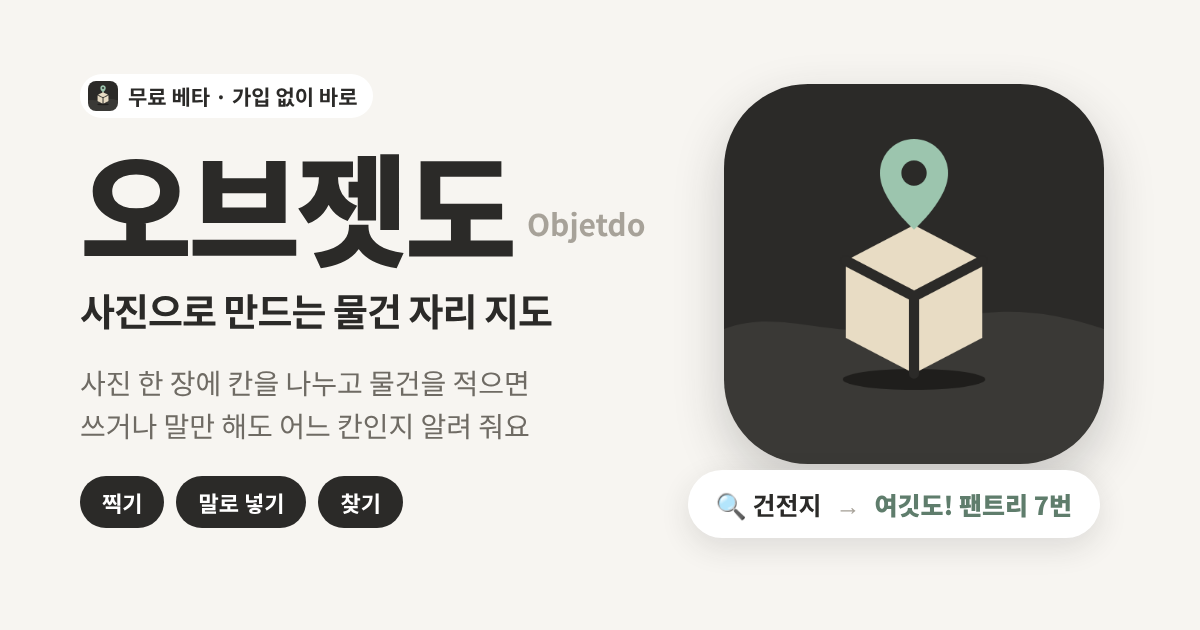
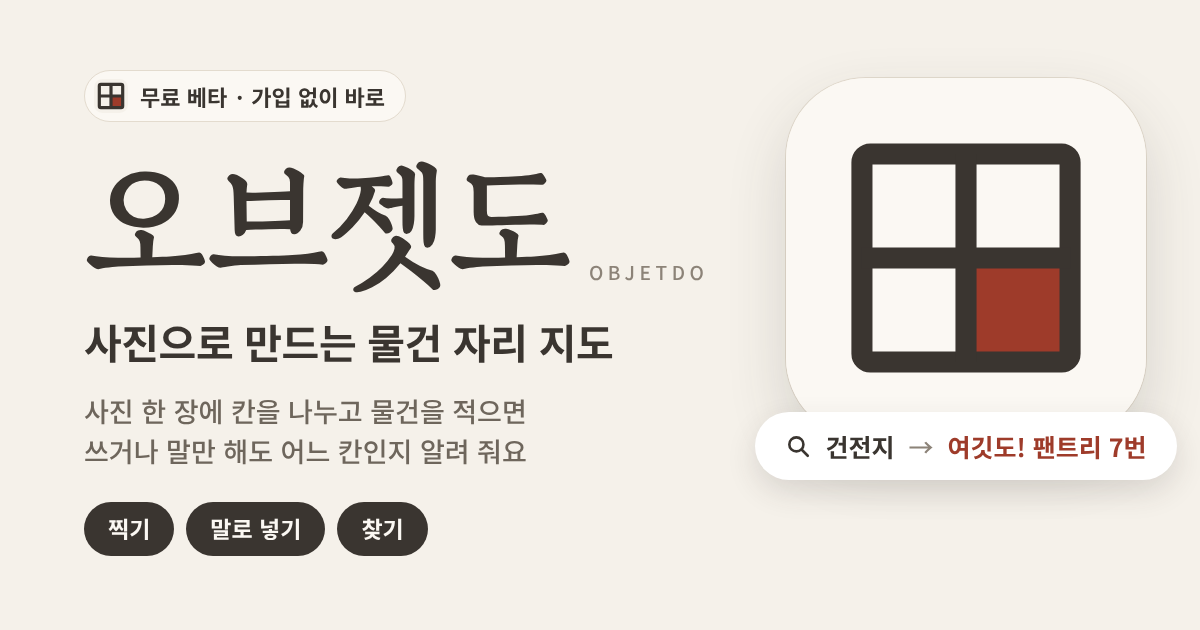
카톡 미리보기 그림(og-image)을 칸 마크·v2 색으로 + 다시 뽑는 도구
- og-image.png: 예전 아이콘(어두운 바탕·민트 핀) → 칸 마크, 바탕·글자·강조색을 v2(베이지·먹색·빨강, 이름은 고운바탕)로. 글은 그대로
- 원본 tools/og-image.html + node tools/make_og_image.js (글꼴을 못 받으면 그림을 만들지 않음)
- 각 페이지 og:image를 ?v=23으로 (카톡이 예전 그림을 기억하지 않게), rename_app.py 안내, 로드맵

Claude-Session: https://claude.ai/code/session_01D364GFJe8vW1WUdJNr2vnt

Changed region(s): [[0.0617, 0.2413, 0.555, 0.9048], [0.4933, 0.1206, 0.9558, 0.8444], [0.0617, 0.1206, 0.3392, 0.181]]

diff --git a/tools/og-image.html b/tools/og-image.html
@@ -1,0 +1,50 @@
+<!doctype html>
+<!-- 카톡·SNS 미리보기 그림 (og-image.png, 1200×630) 원본 — 11/10 '칸 마크'로 새로 만듦.
+     고치면: node tools/make_og_image.js  → 저장소 루트의 og-image.png를 다시 뽑는다.
+     그다음 index.html · v2/index.html · v1.html · start/ · price/ 의 og-image.png?v= 숫자를 올린다 (카톡은 예전 그림을 오래 기억한다) -->
+<html lang="ko">
+<meta charset="utf-8">
+<link rel="stylesheet" href="https://fonts.googleapis.com/css2?family=Gowun+Batang:wght@700&family=Noto+Sans+KR:wght@500;700&display=swap">
+<style>
+    :root { --bg: #F5F1EA; --sheet: #FBF8F3; --ink: #3A3530; --sub: #6E665C; --mute: #8C8378; --line: #E3DBCE; --accent: #9E3B2A; }
+    * { box-sizing: border-box; }
+    html, body { margin: 0; width: 1200px; height: 630px; overflow: hidden; }
+    body { position: relative; background: var(--bg); color: var(--ink); font-family: 'Noto Sans KR', sans-serif; word-break: keep-all; }
+    .left { position: absolute; left: 84px; top: 70px; width: 640px; }
+    .pill { display: inline-flex; align-items: center; gap: 12px; padding: 8px 20px 8px 9px; border: 1px solid var(--line); border-radius: 999px; background: var(--sheet); font-size: 22px; font-weight: 700; }
+    .pill svg { display: block; }
+    .word { display: flex; align-items: baseline; gap: 18px; margin-top: 30px; }
+    .word h1 { margin: 0; font-family: 'Gowun Batang', serif; font-size: 136px; font-weight: 700; line-height: 1.02; letter-spacing: -.01em; }
+    .word span { font-size: 19px; font-weight: 500; letter-spacing: .24em; color: var(--mute); }
+    .sub { margin: 20px 0 0; font-size: 41px; font-weight: 700; letter-spacing: -.01em; }
+    .desc { margin: 20px 0 0; font-size: 27px; font-weight: 500; line-height: 1.5; color: var(--sub); }
+    .acts { display: flex; gap: 12px; margin-top: 30px; }
+    .acts b { padding: 9px 24px 11px; border-radius: 999px; background: var(--ink); color: var(--sheet); font-size: 23px; font-weight: 700; }
+    .right { position: absolute; left: 776px; top: 78px; width: 380px; display: flex; flex-direction: column; align-items: center; }
+    .tile { width: 360px; height: 360px; border-radius: 80px; box-shadow: 0 26px 60px rgba(58, 53, 48, .16), 0 0 0 1px var(--line); overflow: hidden; }
+    .tile svg { display: block; }
+    .ask { display: flex; align-items: center; gap: 14px; margin-top: -26px; padding: 16px 30px; border-radius: 999px; background: #fff; box-shadow: 0 12px 30px rgba(58, 53, 48, .14); font-size: 25px; font-weight: 700; white-space: nowrap; }
+    .ask .ar { color: var(--mute); font-weight: 500; }
+    .ask .hit { color: var(--accent); }
+</style>
+<body>
+<div class="left">
+    <div class="pill">
+        <svg viewBox="0 0 32 32" width="34" height="34"><rect width="32" height="32" rx="8" fill="#F5F1EA"/><rect x="16" y="16" width="10.5" height="10.5" fill="#9E3B2A"/><rect x="5" y="5" width="22" height="22" rx="1.5" fill="none" stroke="#3A3530" stroke-width="3"/><path d="M16 5V27M5 16H27" stroke="#3A3530" stroke-width="3"/></svg>
+        무료 베타 · 가입 없이 바로
+    </div>
+    <div class="word"><h1>오브젯도</h1><span>OBJETDO</span></div>
+    <p class="sub">사진으로 만드는 물건 자리 지도</p>
+    <p class="desc">사진 한 장에 칸을 나누고 물건을 적으면<br>쓰거나 말만 해도 어느 칸인지 알려 줘요</p>
+    <div class="acts"><b>찍기</b><b>말로 넣기</b><b>찾기</b></div>
+</div>
+<div class="right">
+    <!-- 앱 아이콘과 같은 칸 마크 (바탕만 미리보기 바탕보다 밝게) -->
+    <div class="tile"><svg viewBox="0 0 512 512" width="360" height="360"><rect width="512" height="512" fill="#FBF8F3"/><rect x="266" y="266" width="130" height="130" fill="#9E3B2A"/><rect x="108" y="108" width="296" height="296" rx="12" fill="none" stroke="#3A3530" stroke-width="30"/><path d="M256 108V404M108 256H404" stroke="#3A3530" stroke-width="30"/></svg></div>
+    <div class="ask">
+        <svg viewBox="0 0 24 24" width="26" height="26" fill="none" stroke="#3A3530" stroke-width="2.4" stroke-linecap="round"><circle cx="10.5" cy="10.5" r="6.5"/><path d="M15.5 15.5L21 21"/></svg>
+        건전지 <span class="ar">→</span> <span class="hit">여깃도! 팬트리 7번</span>
+    </div>
+</div>
+</body>
+</html>

diff --git a/tools/make_og_image.js b/tools/make_og_image.js
@@ -1,0 +1,18 @@
+// 카톡·SNS 미리보기 그림 다시 뽑기: tools/og-image.html → og-image.png (1200×630)
+//   node tools/make_og_image.js      (playwright 필요 · 글꼴은 Google Fonts에서 받는다)
+//   다 뽑은 뒤 각 페이지의 og-image.png?v= 숫자를 올린다
+const path = require('path');
+const { chromium } = require('playwright');
+(async () => {
+    const root = path.join(__dirname, '..');
+    const b = await chromium.launch();
+    const p = await b.newPage({ viewport: { width: 1200, height: 630 }, deviceScaleFactor: 1 });
+    await p.goto('file://' + path.join(__dirname, 'og-image.html'));
+    await p.evaluate(() => document.fonts.ready);
+    await p.waitForTimeout(500);
+    const ok = await p.evaluate(() => document.fonts.check('700 40px "Gowun Batang"', '오브젯도') && document.fonts.check('700 40px "Noto Sans KR"', '사진'));
+    if (!ok) { console.error('글꼴을 못 받았어요 (인터넷 확인) — 그림을 만들지 않았어요'); await b.close(); process.exit(1); }
+    await p.screenshot({ path: path.join(root, 'og-image.png') });
+    await b.close();
+    console.log('og-image.png 만들었어요');
+})();

diff --git a/v1.html b/v1.html
@@ -64,7 +64,7 @@
     <meta property="og:title" content="오브젯도 - 사진으로 만드는 물건 자리 지도">
     <meta property="og:description" content="선반 사진을 구역으로 나누고 물건을 적으면, 검색 한 번으로 위치를 찾아요.">
     <meta property="og:url" content="https://johnsongarage.co.kr/objetdo/">
-    <meta property="og:image" content="https://johnsongarage.co.kr/objetdo/og-image.png?v=22">
+    <meta property="og:image" content="https://johnsongarage.co.kr/objetdo/og-image.png?v=23">
     <meta property="og:image:width" content="1200">
     <meta property="og:image:height" content="630">
     <meta property="og:image:alt" content="오브젯도: 사진으로 만드는 물건 자리 지도. 먹색 바탕 위에 모래색 상자가 떠 있고 위에서 흰 핀이 가리키는 앱 아이콘, 아래에 '빨대 → 아래 칸 가운데' 검색 결과">

diff --git a/index.html b/index.html
@@ -23,7 +23,7 @@
 <meta property="og:title" content="오브젯도 - 사진으로 만드는 물건 자리 지도">
 <meta property="og:description" content="선반 사진을 구역으로 나누고 물건을 적으면, 검색 한 번으로 위치를 찾아요.">
 <meta property="og:url" content="https://johnsongarage.co.kr/objetdo/">
-<meta property="og:image" content="https://johnsongarage.co.kr/objetdo/og-image.png?v=22">
+<meta property="og:image" content="https://johnsongarage.co.kr/objetdo/og-image.png?v=23">
 <meta property="og:image:width" content="1200">
 <meta property="og:image:height" content="630">
 <meta property="og:image:alt" content="오브젯도: 사진으로 만드는 물건 자리 지도. 먹색 바탕 위에 모래색 상자가 떠 있고 위에서 흰 핀이 가리키는 앱 아이콘, 아래에 '빨대 → 아래 칸 가운데' 검색 결과">

diff --git a/v2/index.html b/v2/index.html
@@ -20,7 +20,7 @@
 <meta property="og:title" content="오브젯도 - 사진으로 만드는 물건 자리 지도">
 <meta property="og:description" content="선반 사진을 구역으로 나누고 물건을 적으면, 검색 한 번으로 위치를 찾아요.">
 <meta property="og:url" content="https://johnsongarage.co.kr/objetdo/">
-<meta property="og:image" content="https://johnsongarage.co.kr/objetdo/og-image.png?v=22">
+<meta property="og:image" content="https://johnsongarage.co.kr/objetdo/og-image.png?v=23">
 <meta property="og:image:width" content="1200">
 <meta property="og:image:height" content="630">
 <meta property="og:image:alt" content="오브젯도: 사진으로 만드는 물건 자리 지도. 먹색 바탕 위에 모래색 상자가 떠 있고 위에서 흰 핀이 가리키는 앱 아이콘, 아래에 '빨대 → 아래 칸 가운데' 검색 결과">

diff --git a/price/index.html b/price/index.html
@@ -9,7 +9,7 @@
 <meta property="og:type" content="website">
 <meta property="og:title" content="오브젯도 가격">
 <meta property="og:description" content="앱 무료 · 원격 기본 3곳 ₩19,000 (+1곳 ₩7,000, 집 전체는 견적) · 구리·남양주 방문 3곳 ₩50,000 (베타 ~12/31, 부가세 포함) · 정리수납 업체 샘플 1곳 무료">
-<meta property="og:image" content="https://johnsongarage.co.kr/objetdo/og-image.png?v=22">
+<meta property="og:image" content="https://johnsongarage.co.kr/objetdo/og-image.png?v=23">
 <meta property="og:url" content="https://johnsongarage.co.kr/objetdo/price/">
 <meta name="theme-color" content="#2b2a28">
 <link rel="icon" type="image/png" sizes="32x32" href="../favicon-32.png?v=15">

diff --git a/start/index.html b/start/index.html
@@ -8,7 +8,7 @@
 <meta property="og:type" content="website">
 <meta property="og:title" content="&quot;사장님, 영수증 용지 여분 어딨어요?&quot; — 오브젯도">
 <meta property="og:description" content="선반 사진 한 장이 물건 지도가 돼요. 검색 한 번이면 그 칸이 빛나요. 가입·결제 없음.">
-<meta property="og:image" content="https://johnsongarage.co.kr/objetdo/og-image.png?v=22">
+<meta property="og:image" content="https://johnsongarage.co.kr/objetdo/og-image.png?v=23">
 <meta property="og:url" content="https://johnsongarage.co.kr/objetdo/start/">
 <meta name="theme-color" content="#f7f5f1">
 <link rel="icon" type="image/png" sizes="32x32" href="../favicon-32.png?v=15">

diff --git a/tools/rename_app.py b/tools/rename_app.py
@@ -7,7 +7,7 @@
   - index.html(기본 주소 → 새 화면으로 넘기는 페이지) · v2/index.html · v2/*.js: 제목·공유 미리보기 글·APP_NAME·화면 글자
   - manifest.webmanifest: 설치 이름(name, short_name)
   - server/ai-proxy.gs: 맨 위 설명 주석
-손으로 해야 하는 것 (끝나면 다시 알려 준다): og-image.png 그림 속 글자, 카톡 채널 이름
+손으로 해야 하는 것 (끝나면 다시 알려 준다): og-image.png 그림 속 글자(tools/og-image.html 고치고 node tools/make_og_image.js), 카톡 채널 이름
 """
 import json, pathlib, re, sys
 
@@ -45,7 +45,7 @@ def main():
         gs_p.write_text(gs_p.read_text(encoding='utf-8').replace(old, new), encoding='utf-8')
 
     print(f'"{old}" → "{new}" (v1.html·index.html·v2 {n_html}곳, manifest, ai-proxy.gs 주석)')
-    print('남은 일: og-image.png 그림 속 글자 새로 만들기 · v1.html·index.html·v2/index.html의 og-image.png?v= 숫자 올리기 · 카톡 채널 이름')
+    print('남은 일: og-image.png 그림 속 글자 새로 만들기(tools/og-image.html → node tools/make_og_image.js) · v1.html·index.html·v2/index.html의 og-image.png?v= 숫자 올리기 · 카톡 채널 이름')
 
 if __name__ == '__main__':
     main()

diff --git a/docs/ROADMAP.md b/docs/ROADMAP.md
@@ -170,7 +170,7 @@
 - ✅ **v2 매장 예시 사진 2장 교체** (11/10, 가르시아가 AI로 만들어 옴, 11/10 배포 #299): 카운터 하부장·창고 냉동고를 그림 → 실제 같은 사진으로 (바 상부장·창고 선반과 톤 맞춤). 냉동고는 왼쪽 벗겨진 벽·바닥과 생성 표시를, 하부장은 아래 표시를 잘라내고 상품권 묶음 위 엉터리 글자를 흐리게. 칸 이름·물건은 그대로, 칸 위치만 새 사진에 맞춤 (`tools/sample-photos/`, `tools/v2_samples.py`). v1 예시는 그대로
 - 🟨 **v2 PC: 물건 창 '완료' 뒤 엉뚱한 칸** (11/10, 가르시아 "구역을 선택후 완료를 누르면 팝업된게 닫기면서 엉뚱한 구역을 가리키는 문제", 배포 대기): 원인 — 창이 열리면 지도·구역 고치기가 한 단(사진이 커짐)으로 바뀌고 닫으면 두 단으로 돌아가 페이지 길이가 바뀌는데 스크롤 위치는 그대로라, 넓은 화면(1600~1920px)에서 닫는 순간 다른 사진·칸이 그 자리에 옴 → 1280px 이상은 창이 열려도 본문을 두 단 그대로 두고 창이 오른쪽 칸 목록 위에 겹침(사진이 안 움직임 · 위 줄·사진 줄·고치기 도구는 창 왼쪽까지) · 작은 PC(1024~1279px)는 지금처럼 한 단으로 바뀌되 그 칸이 화면의 같은 높이에 남게 스크롤을 맞춤 · 닫은 칸은 빨간 테두리가 잠깐 남았다 사라짐. 덤: 구역 고치기에서 물건 창이 열린 채 위 '완료'를 누르면 창만 닫히던 것(두 번 눌러야 나감) → 한 번에 지도로 (폰도 같음)
 - 🟨 **v2 점검 탭 맞춤 · 저장 안내를 기기에 맞게** (11/10, 가르시아 "세기, 발주목록 누르면 도움말 보였다 사라지면서 정렬이 제대로 안 되는 것 · 세기 탭만 시작 위치가 다름" · "피씨에서 이 폰에만 저장돼요", 배포 대기): 점검 — 위 '도움말'은 네 탭 모두에(세기에만 있어 탭을 바꾸면 보였다 사라졌음), [목록 복사]는 아래 줄로, 발주·유통기한·오래된 칸에도 세기처럼 머리줄(목록 시작선이 같은 높이), 아래 버튼 줄은 짧은 탭에서도 화면 맨 아래, 폰은 안내를 두 줄 높이로 맞춤, 도움말에 유통기한·오래된 칸 설명 · 저장 안내 — '이 폰에만'을 기기에 맞게(폰 · 태블릿 · 컴퓨터, PC의 데이터·백업 안내는 '이 컴퓨터의 이 브라우저에만')
-- 🟨 **아이콘·이름 앞 표시를 '칸 마크'로** (11/10, 가르시아 "브라우저 아이콘이 지금 아무것도 없어 · 메인 화면 빨간 점 저게 맞나?" → 후보 3개 중 ①을 고름, 배포 대기): 칸 나눈 사진에서 찾은 칸 하나가 빨간 네모(앱 화면에서 찾은 칸을 빨갛게 보여 주는 것과 같은 그림) — 탭 아이콘(favicon.svg · favicon-32·16), 앱 아이콘 192·512·마스커블, 아이폰 홈 화면 아이콘, 새 화면·예전 화면·랜딩·가격 페이지 링크(?v=15), 메뉴·첫 화면 이름 앞의 빨간 점도 같은 작은 칸 마크로. 예전 아이콘(어두운 바탕·민트 핀)은 어두운 탭에서 거의 안 보였음. 남은 것(제안): 카톡 미리보기 그림(og-image)에 아직 예전 아이콘
+- 🟨 **아이콘·이름 앞 표시를 '칸 마크'로** (11/10, 가르시아 "브라우저 아이콘이 지금 아무것도 없어 · 메인 화면 빨간 점 저게 맞나?" → 후보 3개 중 ①을 고름, 배포 대기): 칸 나눈 사진에서 찾은 칸 하나가 빨간 네모(앱 화면에서 찾은 칸을 빨갛게 보여 주는 것과 같은 그림) — 탭 아이콘(favicon.svg · favicon-32·16), 앱 아이콘 192·512·마스커블, 아이폰 홈 화면 아이콘, 새 화면·예전 화면·랜딩·가격 페이지 링크(?v=15), 메뉴·첫 화면 이름 앞의 빨간 점도 같은 작은 칸 마크로. 예전 아이콘(어두운 바탕·민트 핀)은 어두운 탭에서 거의 안 보였음. 카톡 미리보기 그림(og-image.png, ?v=23)도 칸 마크·v2 색으로 다시 만듦(가르시아 "칸마크로 해줘") — 원본 tools/og-image.html, 다시 뽑기 node tools/make_og_image.js
 - 시연 샘플은 지금 있는 업종 샘플로 충분 — 새로 만들지 않는다
 
 ## 1. 살펴보기 + 첫 세팅 (11월)
